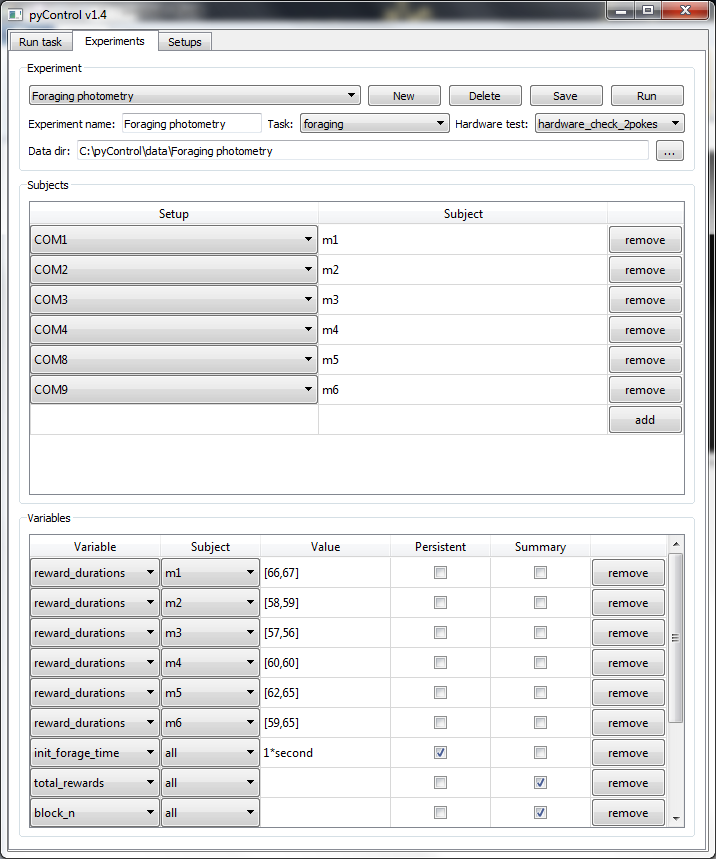
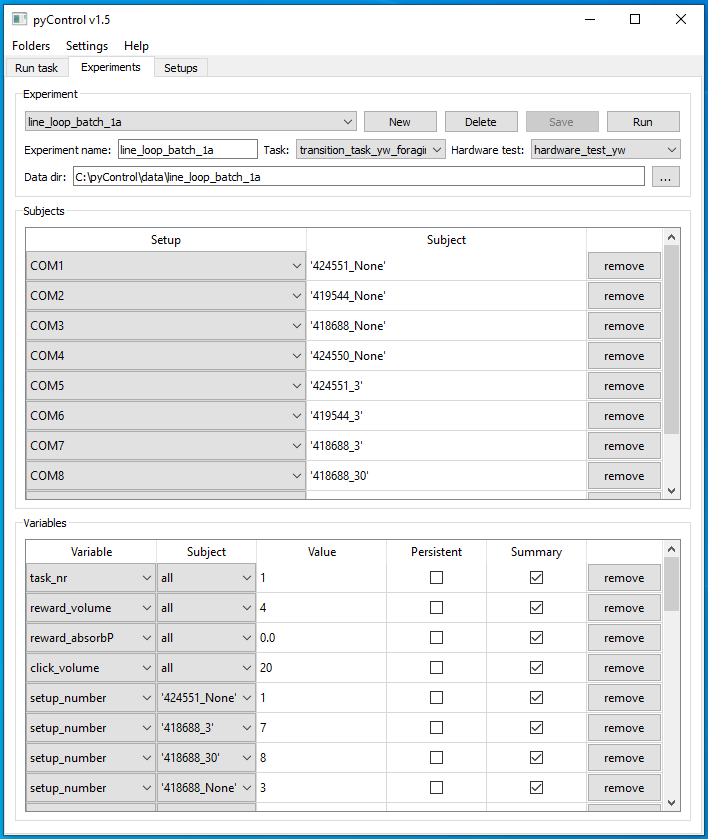
Updated docs for version 1.5

diff --git a/docs/user-guide/troubleshooting.md b/docs/user-guide/troubleshooting.md
@@ -4,28 +4,53 @@ The page details how to fix common problems that can occur when using pyControl.
 
 ### Can't open GUI
 
-To open the GUI you need to run the file *pyControl_GUI.py* in the folder *pyControl/gui* using Python.  One way to do this is to set the file association for *.py* files to Python 3 so that you can run the file by double clicking it.  Alternatively you can open a command prompt, change directory to the folder *pyControl/gui* and run the file with the command `python pyControl_GUI.py`.
+To open the GUI you need to run the file *pyControl_GUI.py* using Python.  One way to do this is to set the file association for *.py* files to Python 3 so that you can run the file by double clicking it.  Alternatively you can open a command prompt, change directory to the folder containing *pyControl_GUI.py* and run the file with the command `python pyControl_GUI.py`.
 
 If the GUI does not open this is probably because you do not have the required [dependencies](../index.md#dependencies) installed, you should see an error message indicating which dependency could not be loaded. 
 
 ### Can't connect to acquisition board.
 
-If the GUI status says 'Connection Failed' when you try to connect to the board, reset the board using the *Reset* button on the breakout board or micropython microcontroller.
+If the GUI status says 'Connection Failed' when you try to connect to the board, reset the board using the *Reset* button on the breakout board or micropython microcontroller, then try connecting again.
+
+You may need to install the micropython USB drivers to ensure your operating system recognizes the board and can open a serial connection to it, see [micropython windows setup](http://micropython.org/resources/Micro-Python-Windows-setup.pdf) and the micropython [docs](http://docs.micropython.org/en/latest/pyboard/pyboard/tutorial/repl.html).  The micropython drivers are unsigned so to install them on Windows 10, follow the instructions [here](https://www.maketecheasier.com/install-unsigned-drivers-windows10/) under *Install Unsigned Drivers from Advanced Boot Menu*.  You should only need to do this the first time you install the drivers on a computer.
+
+### Can' transfer files to pyboard
+
+If you get a message saying *Error: Unable to transfer file.* this usually means that the filesystem on the pyboard has got corrupted. To fix this problem, reset the filesystem by following the instructions [here](https://docs.micropython.org/en/latest/pyboard/tutorial/reset.html#factory-reset-the-filesystem).  
+
+The instructions say to use the *Reset* and *USR* buttons and LEDs on the micropython board for the file system reset.  Depending on how the pyControl breakout board is mounted it may be hard to access these.  However the *Reset* and *USR* buttons on the front of pyControl breakout board 1.2 have identical functionality to those on the pyboard, and indicator LEDs 3 and 4 from the left on the breakout board have the same behaviour as the orange and green LEDs on the pyboard, so the filesystem can be reset with access only to the front of the breakout board.  
+
+After the filesystem reset has finished, reset the board again using the *Reset* button, then connect to the board with the GUI.  The filesystem reset removes both the pyControl framework and any hardware definition from the pyboard so you will have to reload them using the board config menu.  
+
+To reduce the likelihood of filesystem corruption, it is strongly recomended to disable the pyboards filesystem from acting as a USB flash drive.  This can be done using the *'Disable USB flash drive'* option in the board config menu.
 
 ### Board acting funny
 
-If a board is acting strangely, e.g. giving error messages like *Error: Unable to transfer file.*, *Error: Unable to execute command.* or *pyControl Framework:Import error* try the following steps to fix the problem:
+If a board is acting strangely, e.g. giving error messages like *Error: Unable to execute command.* or *pyControl Framework:Import error* try the following steps to fix the problem:
 
 1. Disconnect from the board using the GUI and reset it using the *Reset* button either on the pyboard or on the pyControl breakout board.
-
-2.  If resetting the board does not solve the problem, it is possible the pyboard's filesystem has got corrupted.  Reset the filesystem by following the instructions [here](https://docs.micropython.org/en/latest/pyboard/tutorial/reset.html#factory-reset-the-filesystem).  The instructions say to use the *Reset* and *USR* buttons and LEDs on the micropython board for the file system reset.  Depending on how the pyControl breakout board is mounted it may be hard to access these.  However the *Reset* and *USR* buttons on the front of pyControl breakout board 1.2 have identical functionality to those on the pyboard, and indicator LEDs 3 and 4 from the left on the breakout board have the same behaviour as the orange and green LEDs on the pyboard, so the filesystem can be reset with access only to the front of the breakout board.  After the filesystem reset has finished, reset the board again using the *Reset* button, then connect to the board with the GUI.  The filesystem reset removes both the pyControl framework and any hardware definition from the pyboard.  The GUI will automatically reload the framework when you connect to the board but you will have to manually reload the correct hardware definition using the board config menu.
+#
+2.  If resetting the board does not solve the problem, it is possible the pyboard's filesystem has got corrupted.  Follow the instructions above to reset the pyboard filesystem.
 
 These two steps will solve the great majority of board misbehaviour.
 
 ### Unable to setup state machine
 
-If you get a message saying *Error: Unable to setup state machine* when you upload a task, this means that there is a problem with the task definition file which gives an error when it is imported.  The error message will be followed by a traceback saying the line in the task file where the error occured and what the error was.  Task definition files are renamed *task_file.py* when they are transferred to the pyboard, so the traceback will refer to errors in the task definition file using this name.
+If you get a message saying *Error: Unable to setup state machine* when you upload a task, this usually means that there is a problem with the task definition file which gives an error when it is imported.  The error message will be followed by a traceback saying the line in the task file where the error occured and what the error was.  Task definition files are renamed *task_file.py* when they are transferred to the pyboard, so the traceback will refer to errors in the task definition file using this name.
 
 ### Error during framework run
 
-If you get a message saying *Error during framework run* while the framework is running, this indicates there is a problem with the task file that does not prevent the file being imported but only occurs while the task is running.  This is often due to errors in state behaviour functions which only occur when the function is called.  The error message will include a traceback indicating the line number in the task file where the error occured and what the error was.
+If you get a message saying *Error during framework run* while the framework is running, this usually indicates there is a problem with the task file that does not prevent the file being imported but only occurs while the task is running.  This is often due to errors in state behaviour functions which only occur when the function is called.  The error message will include a traceback indicating the line number in the task file where the error occured and what the error was.
+
+### Upgrading Micropython
+
+Micropython boards (pyboards) need to be running a fairly recent version of the Micropython to work with pyControl.  When you connect to a pyboard with the GUI, the micropython version installed on the board is displayed.  If the micropython version is <1.9 update micropython by doing the following (windows):
+
+1.  Download and install the software [DfuSe demo](https://www.st.com/en/development-tools/stsw-stm32080.html).
+2.  Download the latest numbered release of the firmware (e.g. v1.10) from the micropython [download](http://micropython.org/download) page.  Note, there are two different version of the pyboard microcontroller, *PYBv1.0* and *PYBv1.1*, which require different versions of the firmware.  The board version will be printed on the microcontroller, make sure to download the matching version of the firmware.  There are various different versions of the firmware for each board with names like *standard* and *double FP* - download the *standard* version.
+3.  Open the pyControl GUI and connect to your board.  Open the *Config* menu and select the option *Device firmware update (DFU) mode*.  The pyControl GUI will put the board in DFU mode and disconnect from it.
+4.  Open the program *DfuSe demo*, in the *Available DFU Devices* drop down menu it should say *STM Device in DFU Mode*, indicating it has found the board and it is in DFU mode.  In the *Upgrade or Verify Action* box, press the button *Choose*, then select the micropython firmware file you downloaded.
+5.  Press *Upgrade* and then *Yes* in the dialog box.  *DfuSe demo* will upload the new firmware to the board. When you see a message saying *Upgrade successful*, quit *DfuSe demo*.
+6.  Press the reset button on the pyboard to exit DFU mode.  Connect to the board using the pyControl GUI and the micropython version should be updated.
+
+For information about updating micropython on Linux/Mac see [here](https://github.com/micropython/micropython/wiki/Pyboard-Firmware-Update). 

diff --git a/docs/index.md b/docs/index.md
@@ -34,26 +34,26 @@ Download the latest version of pyControl as a zip file from the [releases](https
 ```
 - pyControl
 	- gui          # Graphical user interface
-    - cli          # Command line interface
     - com          # Serial communication and data logging
-    - config       # Configuration files edited by user
+    - config       # Configuration files
     - data         # Behavioural data.
     - experiments  # Experiment definition files.
     - devices      # pyControl hardware classes (uploaded to pyboard).
     - pyControl    # pyControl framework        (uploaded to pyboard).
     - tasks        # Task definition files
     - tools        # Tools for importing and visualising pycontrol data
+    - pyControl_GUI.py # Python script to launch the GUI.
 ```
 
 ### Dependencies
 
 pyControl has the following dependencies:
 
-- Python 3  *(version 3.7.5 recomended as pyqtgraph is not currently compatible with 3.8)*
+- Python 3 *(pyqtgraph is not currently compatible with Python 3.8)*
 - pyserial
 - numpy
 - pyqt5
-- pyqtgraph
+- pyqtgraph 
 
  On a windows machine that does not already have Python installed, the simplest way to install Python is to download an installer from [python.org](https://www.python.org/downloads/). To ensure you can run Python files (including the pyControl GUI) by double clicking on them, select the options 'Add Python to PATH', 'Add Python to environment variables', and 'Associate files with Python' during installation.  Note; selecting these options when installing Python will cause the Python version you are installing to take precedence over any other version of Python installed on the computer, so may break previous Python based workflows on the computer.
 
@@ -66,34 +66,27 @@ python -m pip install pyqt5
 python -m pip install pyqtgraph
 ```
 
-You should then be able to launch the GUI by double clicking the file *pyControl_GUI.py* in the folder *pyControl/gui*.
+You should then be able to launch the GUI by double clicking the file *pyControl_GUI.py* in the pyControl root directory.  
 
-pyControl has been tested primarily on Windows 7 and 10 but in principle should be cross platform and has been used on Mac and Linux. You may need to install the micropython USB drivers to ensure your operating system recognizes the board and can open a serial connection to it, see [micropython windows setup](http://micropython.org/resources/Micro-Python-Windows-setup.pdf) and the micropython [docs](http://docs.micropython.org/en/latest/pyboard/pyboard/tutorial/repl.html).  The micropython drivers are unsigned so to install them on Windows 10, follow the instructions [here](https://www.maketecheasier.com/install-unsigned-drivers-windows10/) under *Install Unsigned Drivers from Advanced Boot Menu*.  You should only need to do this the first time you install the drivers on a computer.
+pyControl has been tested primarily on Windows 7 and 10 but in principle should be cross platform and has been used on Mac and Linux. 
 
-Micropython boards (pyboards) need to be running a fairly recent version of the Micropython firmware to work with pyControl.  When you connect to a pyboard with the GUI, the micropython version installed on the board is displayed.  If the micropython version is <1.9 update micropython by doing the following (windows):
-
-1.  Download and install the software [DfuSe demo](https://www.st.com/en/development-tools/stsw-stm32080.html).
-2.  Download the latest numbered release of the firmware (e.g. v1.10) from the micropython [download](http://micropython.org/download) page.  Note, there are two different version of the pyboard microcontroller, *PYBv1.0* and *PYBv1.1*, which require different versions of the firmware.  The board version will be printed on the microcontroller, make sure to download the matching version of the firmware.  There are various different versions of the firmware for each board with names like *standard* and *double FP* - download the *standard* version.
-3.  Open the pyControl GUI and connect to your board.  Open the *Config* menu and select the option *Device firmware update (DFU) mode*.  The pyControl GUI will put the board in DFU mode and disconnect from it.
-4.  Open the program *DfuSe demo*, in the *Available DFU Devices* drop down menu it should say *STM Device in DFU Mode*, indicating it has found the board and it is in DFU mode.  In the *Upgrade or Verify Action* box, press the button *Choose*, then select the micropython firmware file you downloaded.
-5.  Press *Upgrade* and then *Yes* in the dialog box.  *DfuSe demo* will upload the new firmware to the board. When you see a message saying *Upgrade successful*, quit *DfuSe demo*.
-6.  Press the reset button on the pyboard to exit DFU mode.  Connect to the board using the pyControl GUI and the micropython version should be updated.
-
-For information about updating micropython on Linux/Mac see [here](https://github.com/micropython/micropython/wiki/Pyboard-Firmware-Update). 
+Micropython boards (pyboards) need to be running a fairly recent version of the Micropython firmware to work with pyControl.  When you connect to a pyboard with the GUI, the micropython version installed on the board is displayed.  If the micropython version is <1.9 upgrade micropython using the instructions [here](user-guide/troubleshooting.md#upgrading-micropython).
 
 ### Updating pyControl
 
-To update pyControl, download the latest version from the download page, unzip it, and copy across the *config* and *tasks* directories from your old installation to keep you configuration settings and tasks.  After updating pyControl you should reload the pyControl framework onto your pyboards using the GUI's board config menu.
+To update pyControl, download the latest version from the download page, unzip it, and copy across the *tasks* directory from your old installation to keep your tasks.  After updating pyControl you should reload the pyControl framework onto your pyboards using the GUI's board config menu.
 
-Alternatively you can clone the repository rather than downloading it as a zip.  You can then pull the latest version from the repository to update, but be careful not to overwrite your configuration files.
+Alternatively you can clone the repository using git rather than downloading it as a zip.  You can then pull the latest version from the code repository to update.
 
 ### Running a task
 
-Run the file *pyControl_GUI.py* in the folder *pyControl/gui*, you will see a GUI window like that shown above.
+Run the file *pyControl_GUI.py* in the pyControl root directory, you will see a GUI window like that shown above, with the *Run Task* tab selected.
 # 
-Plug in a pyboard and it will appear in the *Select* drop down menu in the *Setup*  box.  Select the board and press the *Connect* button.  The GUI will connect to the board and upload the pyControl framework.
-# 
-From the *Tasks* drop down menu, select the task [*blinker*](https://github.com/pyControl/code/blob/master/tasks/blinker.py).  Press the *Upload* button to upload the task to the pyboard.
+Plug in a pyboard and it will appear in the *Select* drop down menu in the *Setup*  box.  Select the board and press the *Connect* button.  The GUI will connect to the board.  
+#
+If the pyControl framework is not already installed on the board, you will see a message saying *Load pyControl framework using 'Config' button.* Press the *Config* button to bring up the config menu and select *Load framework*.  If you see a message prompting you to disable the pyboard filesystem from acting as a USB flash drive, click *Yes*, then reconnect to the board (the serial port may have changed when you disable the flash drive) and load the framework.
+#
+Once the pyControl framework is installed on the board, from the *Tasks* drop down menu, select the task [*blinker*](https://github.com/pyControl/code/blob/master/tasks/blinker.py).  Press the *Upload* button to upload the task to the pyboard.
 # 
 Press the *Start* button.  The task will run causing the blue LED on the pyboard to start blinking.
 # 

diff --git a/docs/user-guide/graphical-user-interface.md b/docs/user-guide/graphical-user-interface.md
@@ -2,7 +2,7 @@
 
 The pyControl GUI is a graphical interface for running experiments, configuring setups and visualising behaviour.   The GUI is a tabbed window with tabs *Run task*, *Experiments* and *Setups*.  The *Run task* tab controls one hardware setup at a time i.e. one pyboard and its connected hardware.  It is designed for quickly prototyping tasks and testing hardware setups.  The *Experiments* tab is used to configure and run experiments on many setups in parallel.  The *Setups* tab is used to name and configure the hardware setups connected to the computer.
 
-To run the GUI, run the file *pyControl_GUI.py* in folder *pyControl/GUI*.
+To run the GUI, run the file *pyControl_GUI.py* in the pyControl root directory.
 
 # Run task tab
 
@@ -14,17 +14,19 @@ The **Setup** control box is used to select a pyboard, connect and disconnect fr
 
 The **Data file** control box is used to select the directory where data files will be stored and to specify the ID of the subject.  The filename is given by the subject ID and session start date and time.
 
-The **Task** control box is used to select and upload a task and configure task variables.  The tasks available in the drop down menu are those in the folder *pyControl/tasks*.  The tasks folder can be changed by editing the file *pyControl/config/paths.py*.  The *upload* button transfers the task file to the pyboard and sets up the task state machine.  Once a task is uploaded the button changes to *reset*.  Resetting the task returns it to its initial state as defined in the task definition file.  The *Variables* button opens a dialog for setting or getting the value of task variables.  It can be used either before a run starts or while a task is running.  Variables must be defined in the task definition file using the `v.my_variable` syntax (see [programming tasks](programming-tasks.md#variables)).  Variables can be set to numbers, or to Python objects including strings, lists and dictionaries.  The constants `ms`, `second`, `minute` and `hour` can be used, e.g. a variable can be set to `30*minute`.
+The **Task** control box is used to select and upload a task and configure task variables.  The tasks available in the drop down menu are those in the folder *pyControl/tasks*.  The tasks folder can be changed by editing the file *pyControl/config/paths.py*.  The *upload* button transfers the task file to the pyboard and sets up the task state machine.  Once a task is uploaded the button changes to *reset*.  Resetting the task returns it to its initial state as defined in the task definition file.  
+
+The *Variables* button opens a dialog for setting or getting the value of task variables.  It can be used either before a run starts or while a task is running.  Variables must be defined in the task definition file using the `v.my_variable` syntax (see [programming tasks](programming-tasks.md#variables)).  Variables can be set to numbers, or to Python objects including strings, lists and dictionaries.  The constants `ms`, `second`, `minute` and `hour` can be used, e.g. a variable can be set to `30*minute`.  You can make task variables invisible to the GUI by ending their name in three underscores (e.g. `v.my_private_variable___`).  Such 'private' variables work as normal in the task file but do not show up in the GUI.  This can be useful if you have a lot of task variables, making it hard to find the ones you need to change in the GUI.
 
 # Experiments tab
 
-The experiments tab is used to configure and run experiments on multiple hardware setups at the same time.  When the experiments tab is opened it shows the configure experiment dialog.
+The experiments tab is used to configure, save, load and run experiments on one or more hardware setups at the same time.  An experiment is a set of hardware setups each with a corresponding subject, run on a given task, potentially with variables set to non-default values for some or all subjects.
 
 ## Configuring experiments
 
 ![run_task_GUI.jpg](../media/GUI/configure_experiment_tab.png)
 
-To create an experiment, specify the experiment name and select the task.  By default data generated by the experiment will be saved in a folder *pyControl/data/experiment_name*, but the data folder can be changed using the data dir control.
+When the experiments tab is opened it shows the configure experiment dialog.  To create an experiment, specify the experiment name and select the task.  By default data generated by the experiment will be saved in a folder *pyControl/data/experiment_name*, but the data folder can be changed using the data dir control.
 
 Optionally a hardware test can be specified for the experiment.  The hardware test is a task that is run before the main task, allowing the user to check whether the hardware is working as intended.  The hardware test can be the same task as that used for the experiment, or another task designed specifically to test the hardware.  No data is saved during the hardware test.
 

diff --git a/docs/user-guide/pycontrol-data.md b/docs/user-guide/pycontrol-data.md
@@ -7,12 +7,13 @@ An example data file might read:
 ```text
 I Experiment name  : example_experiment
 I Task name : button
+I Task file hash : 289826412
 I Subject ID : m001
 I Start date : 2018/01/30 21:49:42
 
-S {'LED_on': 1, 'LED_off': 2}
+S {"LED_on": 1, "LED_off": 2}
 
-E {'button_press': 3}
+E {"button_press": 3}
 
 D 0 2
 D 8976 3
@@ -22,11 +23,11 @@ D 10162 3
 D 10163 2
 ```
 
-Lines begining `I` contain infomation about the session and experiment.  
+Lines begining `I` contain infomation about the session including subject, task and experiment names, start date and time.
 
-The single line begining `S` is a Python dictionary containing the state names and corresponding IDs.
+The single line begining `S` is a JSON object (also a Python dict)  containing the state names and corresponding IDs.
 
-The single line begining `E` is a Python dictionary containing the event names and corresponding IDs.
+The single line begining `E` is a JSON object (also a Python dict) containing the event names and corresponding IDs.
 
 Lines begining `D` are data lines with format `D timestamp ID` where *timestamp* is the time in milliseconds since the start of the framework run and *ID* is a state ID (indicating a state transition) or an event ID (indicating an event occured).
 
@@ -34,7 +35,11 @@ Lines begining `P` are the output of print statements with format *P timestamp p
 
 Lines begining `!` indicate that an error occured during the framework run and contain the error message.
 
---- 
+## Versioned task files
+
+Task files used to generate data are also stored in the data folder, with a file hash appended to the task file name to uniquely identify the file version.  The file hash of the task file used for each session is recorded in that session's data file so the exact task file version used to run each session can be identified.
+
+---
 
 # Visualising data
 
@@ -220,7 +225,7 @@ when = ['2017-07-01',...,'2017-07-07'] # Select session with '2017-07-01' <= dat
 
 ## Analog data
 
-pyControl analog data files (*'.pca'* file extension) are binary data files created by [analog inputs](hardware.md#analog-input) and other source of analog data such as [rotary encoders](hardware.md#rotary-encoder).  They consist of alternating timestamps and data samples, both saved as 4 byte little endian signed integers.  The function `load_analog_data` loads a pyControl analog data file into Python, returning a numpy array whose first column is timestamps and second column data samples.  
+pyControl analog data files (*'.pca'* file extension) are binary data files created by [analog inputs](hardware.md#analog-input) and other source of analog data such as [rotary encoders](hardware.md#rotary-encoder).  They consist of alternating timestamps and data samples, both saved as 4 byte little endian signed integers.  The function `load_analog_data` loads a pyControl analog data file into Python, returning a numpy array whose first column is timestamps and second column data samples
 
 ```python
 analog_data_array = load_analog_data('path//to//analog_data_file.pca')

diff --git a/docs/about/release-notes.md b/docs/about/release-notes.md
@@ -2,15 +2,37 @@
 
 ---
 
-## Maintenance team
+**Version 1.4.1** 03/02/2018
 
-The current and past members of the pyControl team.
+GUI:
 
-* [@takam](https://github.com/ThomasAkam)
-* [@cajomferro](https://github.com/cajomferro/)
-* [@UmSenhorQualquer](https://github.com/UmSenhorQualquer)
-
-## Change Log
+- Task files used in an experiment are now automatically saved in the experiments data folder with a file hash appended to the task file name to uniquely identify the file version.  Whenever a task file used in the experiment is modified the new version will be saved to the data folder when the experiment is run.  The task file hash used for each session is recorded in the session's data file so the exact task file used to run each session can be identified.
+#
+- A menu bar now provides quick access to online help, data/task folders, and some GUI settings.
+#
+- Behaviour plots can now be paused.
+#
+- Keyboard shortcuts now implemented for some commonly actions, detailed in the help menu.
+#
+- Task variables can now be specified as private by ending the variable name with three underscores, making them invisible to the GUI.
+#
+- A meaningful error message is now shown on failure to import dependencies.
+#
+- Persistent variables implementation now allows running different subjects on different sessions in same experiment data folder without overwriting the persistent variables. 
+#
+- Improved reliability of file transfer to pyboard.
+#
+- Ordering of subjects in summary variables table is now consistent with that in configure experiment tab.
+#
+- GUI is now launched by running file pyControl_GUI.py in the pyControl root directory.
+#
+- Event and state dictionaries now written to task file as JSON objects to make them easier to parse cross platform. This does not affect reading task files in Python as JSON objects are also Python dicts (as used previously).
+#
+- Various bugfixes and reliability improvements.
+#
+CLI
+#
+- Removed command line interface.
 
 ---
 

diff --git a/docs/user-guide/programming-tasks.md b/docs/user-guide/programming-tasks.md
@@ -203,6 +203,8 @@ def state_A(event):
 
 Starting all variable names with `v.` makes all variables attributes of a single object called `v` (imported from `pyControl.utility`).  This avoids problems that could otherwise occur when variables are accessed or set in state behaviour functions due to these functions having their own [namespaces](https://docs.python.org/3/tutorial/classes.html).  It also allows the GUI and CLI to access the variables to set or get their values.
 
+You can make task variables invisible to the GUI by ending their name in three underscores (e.g. `v.my_private_variable___`).  Such 'private' variables work as normal in the task file but do not show up in the GUI.  This can be useful if you have a lot of task variables, making it hard to find the ones you need to change in the GUI.
+
 ## Data output
 
 Whenever an external event occurs it is output to the data log along with a timestamp. Whenever a state transition occurs the state that is entered is output with a timestamp.  Events triggered by timers are not logged in the data output by default, but any state transitions they generate are logged as normal.  If you want an event triggered by a timer to be recorded in the data output, set the `output_event` argument to `True` when setting the timer:

diff --git a/docs/contributing.md b/docs/contributing.md
@@ -7,6 +7,10 @@ users in the open source community. Contributions can be made in a number of way
 - Documentation improvements
 - Bug reports and patch reviews
 
+To get started improving pyControl, fork the relevent pyControl repository on [github](https://github.com/pyControl).
+
+The default branch of the repository contains the last numbered release. The dev branch contains the latest version which typically has more features but may be more buggy.  pyControl development should build on the latest commit in the dev branch to facilitate integrating it back into the codebase.
+
 ## Reporting an Issue
 
 Please include as much detail as you can. Let us know your platform and pyControl version, and ideally include a screenshot of the error message.
@@ -14,4 +18,3 @@ Please include as much detail as you can. Let us know your platform and pyContro
 ## Submitting Pull Requests
 
 Once you are happy with your changes or you are ready for some feedback, push it to your fork and send a pull request.
-
